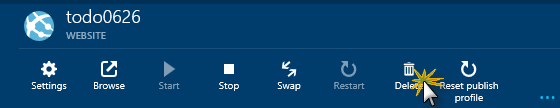
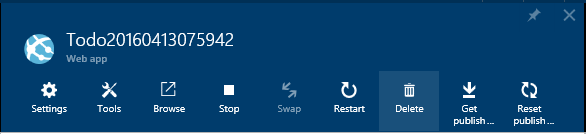
Updating screenshots and steps

diff --git a/README.md b/README.md
@@ -472,23 +472,7 @@ In this task you will add code in the **ItemController** class to handle the fol
 
 1. Switch to the browser instance in which you have the Azure Preview Portal open. Verify that the DocumentDB account has been created by looking for your new DocumentDB account under all resources
 
-1. Click on your new **DocumentDB** account under the resource group.
-
-	> **Note:** The default consistency of the DocumentDB account will be set to Session. You can adjust the default consistency setting via the [preview management portal](https://portal.azure.com/#gallery/Microsoft.DocumentDB).
-
-	![The new DocumentDB account has been created](./images/new-documentdb-account-created.png?raw=true)
-
-	_The new DocumentDB account has been created_
-
-	> **Note:** You can also access your existing DocumentDB accounts from the **Browse** blade.
-
-	> ![Accessing the DocumentDB accounts from the Browse blade](./images/accessing-the-documentdb-accounts-from-browse.png?raw=true)
-
-	> _Accessing the DocumentDB accounts from the Browse blade_
-
-	> ![Accessing the just created DocumentDB account](./images/accessing-the-new-documentdb-account.png?raw=true)
-
-	> _Accessing the DocumentDB account just created_
+1. Click on your new **DocumentDB** account under all resources.
 
 1. Now, click the **KEYS** button to open the **Keys** blade. Copy the endpoint **URI** and paste the value in the **Web.config** file open in Visual Studio, in place of the **URI** placeholder.
 
@@ -847,15 +831,15 @@ To delete the website follow these steps:
 
 1. In your browser, go to [the preview management portal](https://portal.azure.com/), and sign in with your Azure credentials.
 
-2. Click **BROWSE** in the Navigation hub on the left and then **Web Apps**.
+2. Click **App Services** in the navigation on the left and then select your Todo app service.
 
 	![Browse websites](images/browse-websites.png?raw=true)
 
-	_Browsing websites_
+	_Browsing app services_
 
-	A blade displaying all websites will be displayed.
+	A blade displaying all App Services will be displayed.
 
-1. Select your website and click **DELETE** in the details blade.
+1. Select your app and click **DELETE** in the details blade.
 
 	![Clicking Delete website](images/clicking-delete-website.png?raw=true)
 
@@ -863,7 +847,7 @@ To delete the website follow these steps:
 
 4. In the **Delete Confirmation** dialog, click **Yes**.
 
-	The website will be deleted. You will see a notification in the **Notifications** hub.
+	The web app will be deleted.
 
 To delete the DocumentDB account proceed in a similar way:
 
